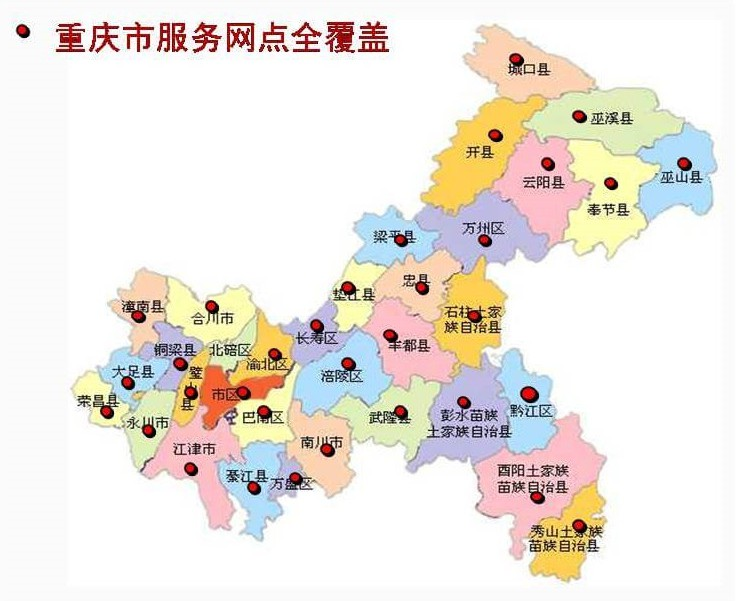
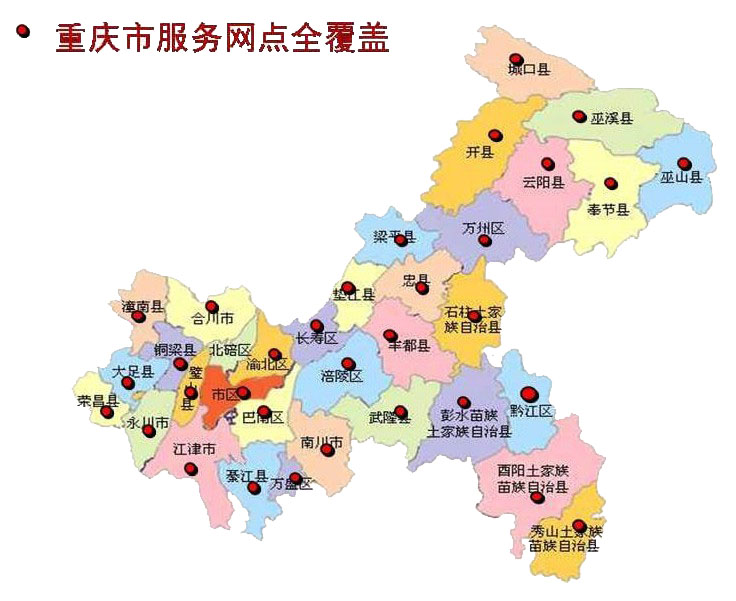
添加图片

diff --git a/src/views/fwpz/index.vue b/src/views/fwpz/index.vue
@@ -14,9 +14,9 @@
       <!--      <img class="map-1" src="../../assets/image/map-1.jpg">-->
       <!--      <span>重庆市服务网点全覆盖</span>-->
       <!--      <img class="map-2" src="../../assets/image/map-2.jpg">-->
-      <img class="jq-1" src="../../assets/image/jq-1.jpg">
-      <img class="jq-2" src="../../assets/image/jq-2.jpg">
-      <img class="jq-3" src="../../assets/image/jq-3.jpg">
+      <img class="jq-1" src="../../assets/image/jq-1.png">
+      <img class="jq-2" src="../../assets/image/jq-2.png">
+      <img class="jq-3" src="../../assets/image/jq-3.png">
     </div>
     <div :class="{'run-animation':isShow1 }" class="l-l animation-container animation-fade-right">
       <span>◆</span> 重庆监管机构评级：
